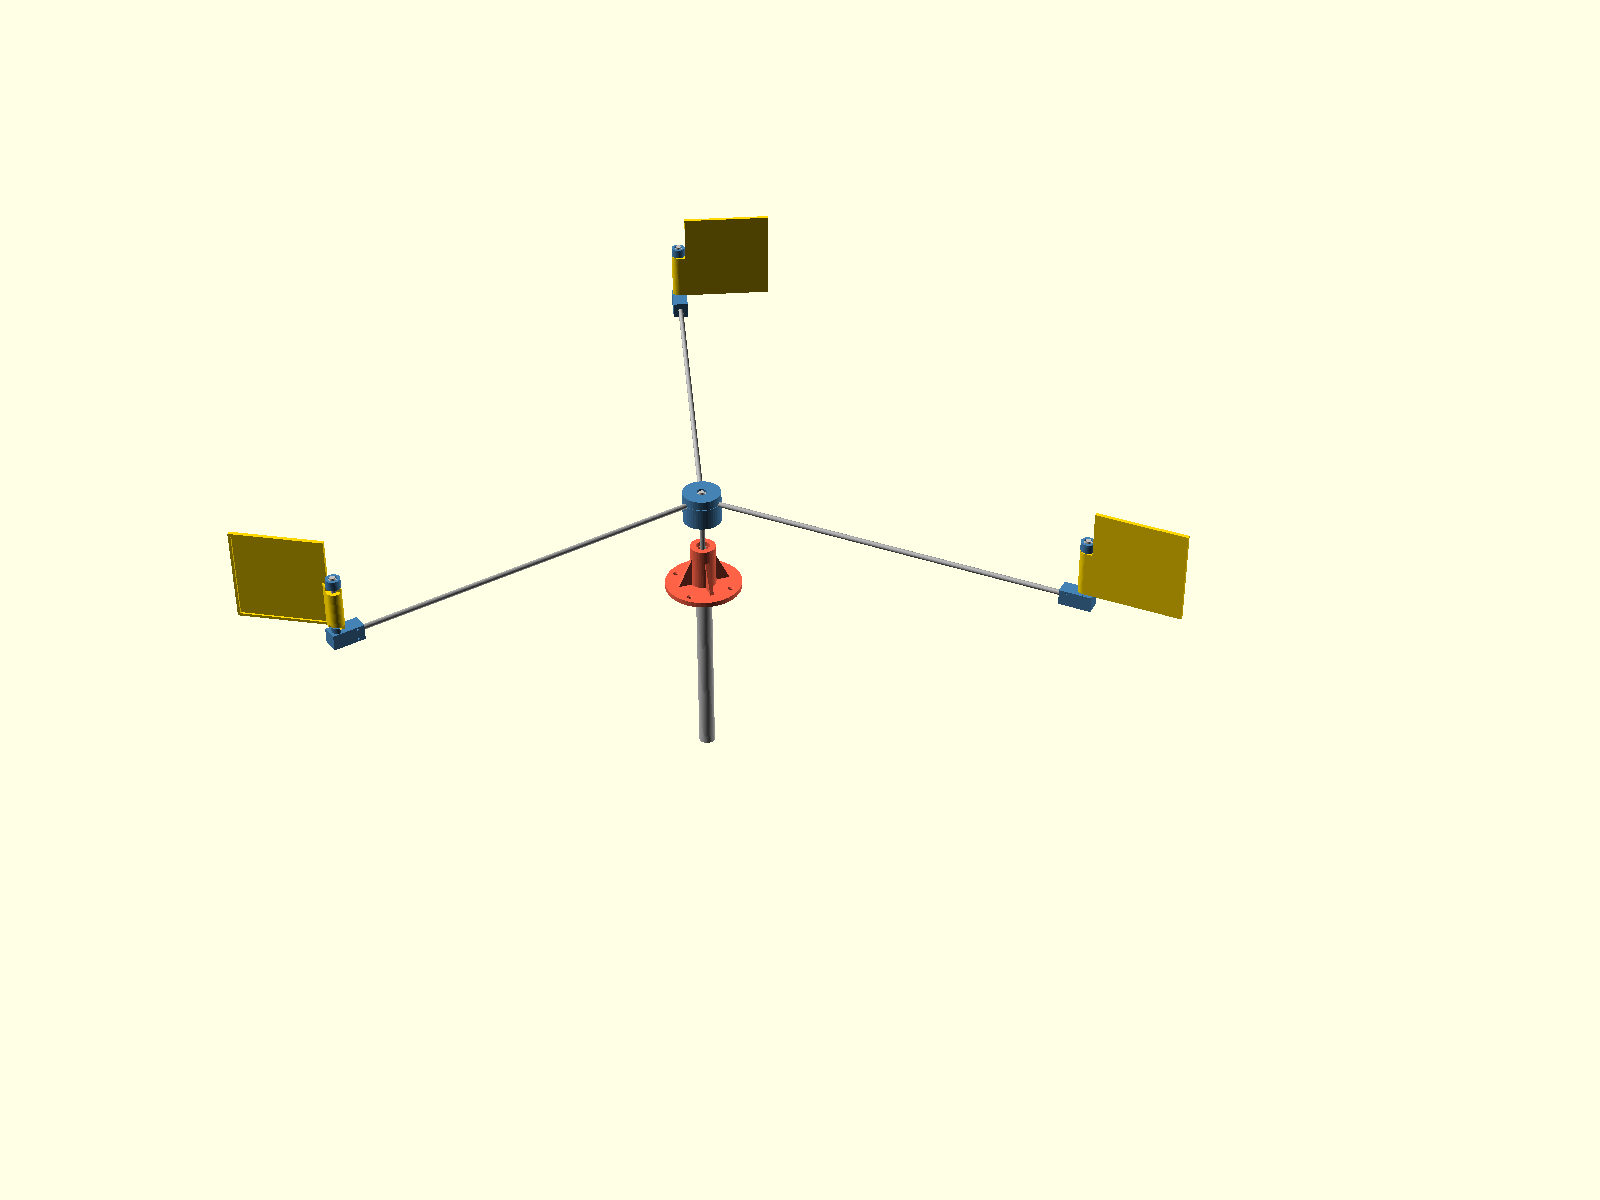
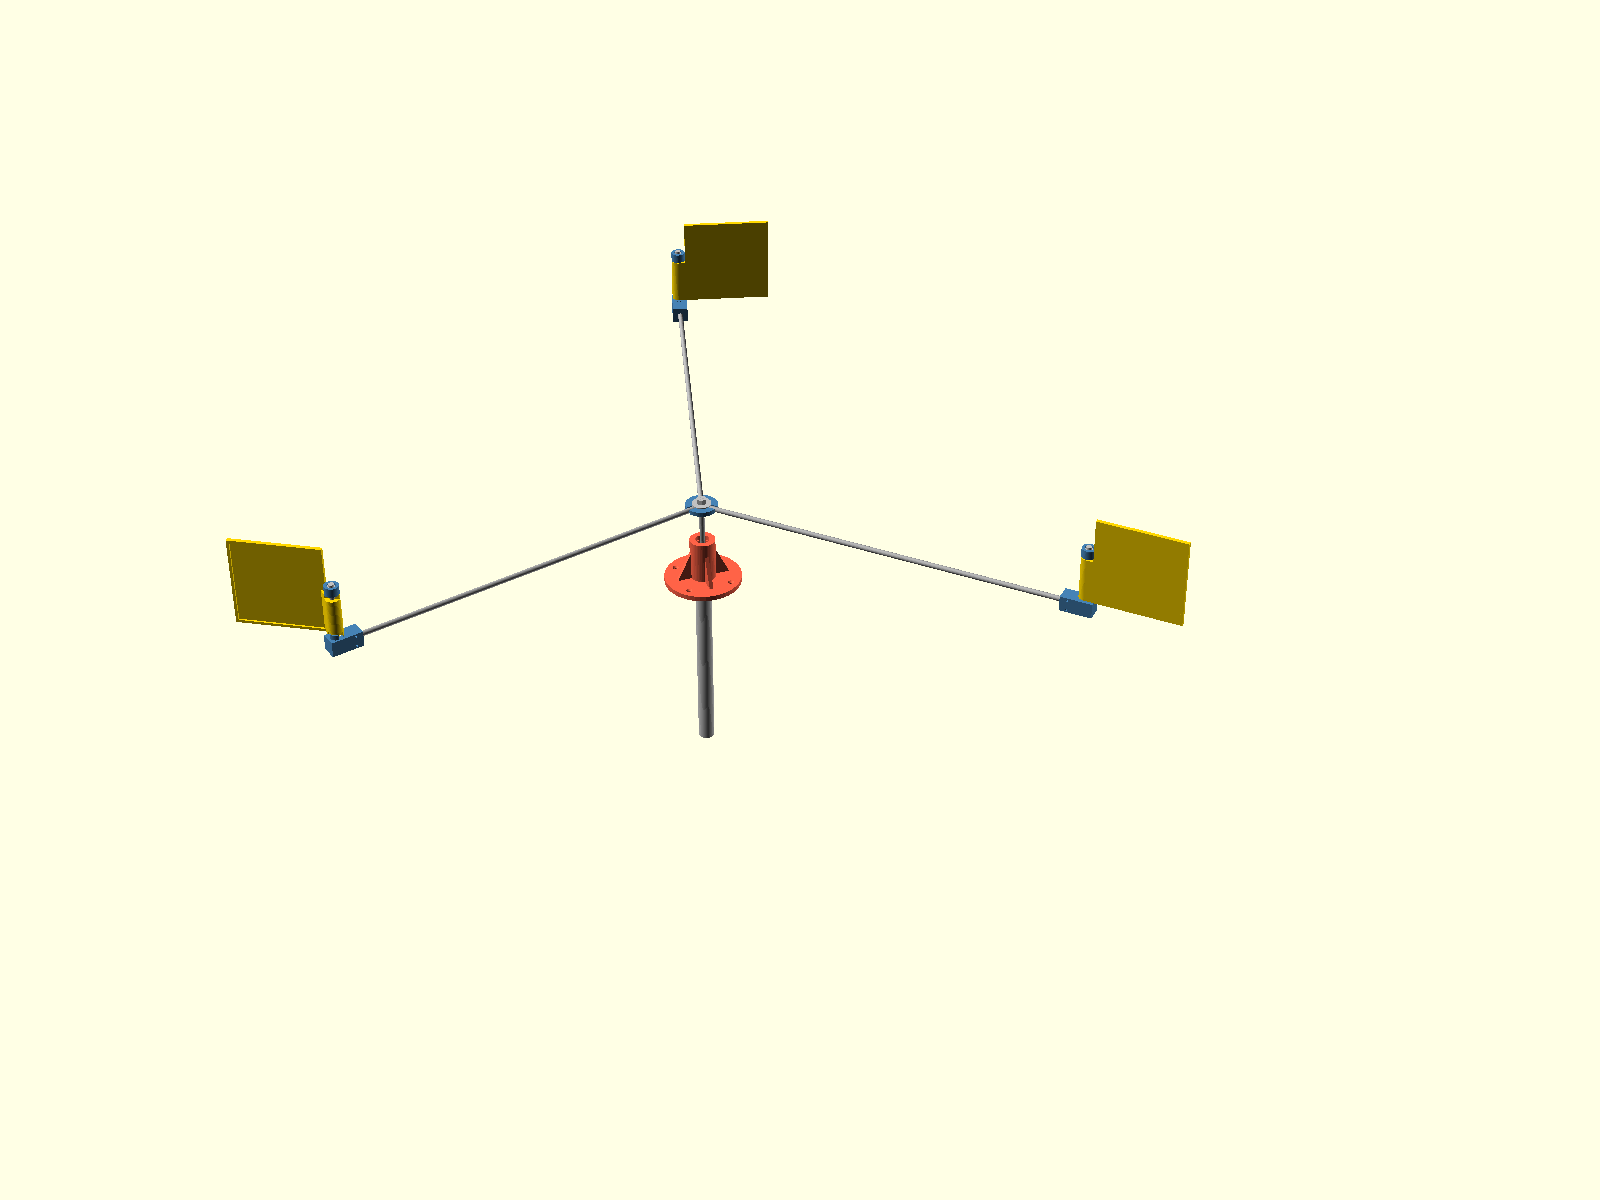
Tri washer-jaw hub: one spacer disc, fender washers as steel clamp jaws
The hub iterated down to its minimum: one printed disc, thinner
than the rod, with three full-height slots keying the arms at 120
degrees. The arms stand proud of both faces and two large M8 fender
washers press onto them from either side, clamped by M8 nylocs on
the shaft's die-threaded top end. The clamp path is steel washer,
aluminum rod, steel washer, steel nut, with no plastic in
compression, so this joint never needs the dual's seasonal
re-torque. The shaft is die-threaded, never drilled: 8 mm rod is an
M8 thread blank.

Also records a correction: the earlier claim that thread at the
shaft exit fails the storm case borrowed the arm's root moment. The
shaft at the hub carries about 1 Nm at survival wind, so the
threaded section holds a factor near four; the storm-critical
member remains the arm.

diff --git a/docs/tri_concept.md b/docs/tri_concept.md
@@ -27,60 +27,58 @@ cap are the tri's own joints, built on one recurring idea. The tri
 models use `tri_` prefixed parameters and nothing from `cad/tri/`
 is exported to `stl/`.
 
-The idea: every rod in the tri lands on a printed step and is
-pulled home by one M5 with a washer into a tapped hole in the
-rod's end. The dual clamps rods because a DIY build cannot machine
-them; the tri PREPARES its rods (drill 4.2 mm, tap M5x0.8, 10 mm
-deep) and buys back almost every fastener and every set-by-hand
-step. One drill size, one tap, no lathe.
+The idea: the tri's rods end in threads, and every joint is a
+face pulled home along that thread, with printed plastic doing
+only keying and spacing. The dual clamps rods because a DIY build
+cannot machine them; the tri PREPARES its rods and buys back
+almost every fastener and every set-by-hand step. The whole
+toolchain is hand tools: one M8x1.25 die for the shaft, one 4.2 mm
+drill and M5x0.8 tap for the stubs, no lathe.
 
-## The split hub
+## The washer-jaw hub
 
-The tri's hub (`cad/tri/tri_hub.scad`) is a cylinder split on the
-horizontal plane containing all three arm axes. The arms lie in
-radial half-round seats and butt against the boss circle around
-the bolt bore; the top half closes over them, and one central M5
-with a washer runs down through both halves into a tapped hole in
-the shaft's top end. Tightening it pulls the shaft face up against
-the socket shoulder and presses the halves together, so a single
-bolt clamps three arms and locks the shaft axially at once. The
-three rods at 120 degrees key the halves against relative
-rotation, so there are no registration pegs, and the dual's
-clamshell rule carries over: the seats are cut shy by
-`tri_hub_gap`, so preload lands on the rods, never on
-face-to-face plastic. Both halves print seats-up with every bore
-vertical.
+The hub (`cad/tri/tri_hub.scad`) went through several sizes on
+the way down and landed as small as the job allows: ONE printed
+spacer disc, thinner than the rod. Three full-height slots key
+the arms at 120 degrees, the arms butt the boss circle and stand
+proud of both faces by 0.4 mm each, and two large M8
+fender washers press onto the rods from either side, clamped by
+M8 nylocs on the shaft's die-threaded top end (8 mm rod is
+exactly an M8 thread blank, so a hand die self-aligns and this
+rod is never drilled at all; the lower nut is the shoulder, run
+to the die's thread runout, and the upper one is the clamp).
 
-This is a deliberate divergence from the dual's no-rod-is-ever-
-drilled rule, and it marks the variants' characters: the dual is
-the fully DIY machine (hacksaw and hex keys only), the tri leans
-commercial-kit, with a PREPARED shaft (drill 4.2 mm, tap M5x0.8,
-10 mm deep in one end). Sourcing that prepared shaft:
+The load path is worth stating: steel washer, aluminum rod, steel
+washer, steel nut. No plastic sits in compression anywhere in
+this joint, so unlike every clamp on the dual it does not relax
+and never needs the seasonal re-torque. The disc only keys: its
+slot flanks carry the arms' horizontal storm bending as bearing
+over 18 mm, the washer faces square the hub on the shaft, and the
+disc prints flat in minutes.
+
+A structural note, recording a correction: an earlier pass
+rejected male thread on the shaft, claiming the storm case fails
+at the threaded exit with a safety factor near 0.7. That number
+was wrong, it borrowed the ARM's root moment (about 5.8 Nm). The
+shaft at the hub only carries the vane drag over the short lever
+down to the top bearing, about 1 Nm at survival wind, so even on
+the M8 minor section the stress is about 42 MPa against the
+alloy's 160: a storm factor near four, with gust amplitudes far
+below fatigue concern. The storm-critical member is and remains
+the arm, unaffected by any hub choice.
+
+Sourcing notes for the prepared rods, kept from earlier rounds:
 
 - Tube cannot be tapped: any 8 mm tube has a bore at or above 5
-  mm, which is already larger than the M5 thread. Solid rod only.
-- Solid 8 mm aluminum rod taps easily by hand: center punch,
-  drill 4.2 mm about 14 mm deep, tap M5x0.8. A lathe makes it
-  concentric and fast but is not required, because the socket
-  locates the shaft and the bolt only supplies axial preload, so
-  thread concentricity is not critical.
+  mm, already larger than the M5 thread. Solid rod only.
+- Solid 8 mm rod taps easily by hand (center punch, drill 4.2 mm
+  about 14 mm deep, tap M5x0.8), and dies easily by hand (chamfer
+  the end, run the die). Concentricity is not critical in either
+  case, because bores and steps locate the rods and the threads
+  only supply axial preload.
 - For kits, linear-motion suppliers sell ground 8 mm shafts with
-  female-tapped ends as a standard catalog option, which is zero
+  threaded ends as a standard catalog option, which is zero
   machining.
-
-Considered and set aside, recorded so it is not rediscovered: a
-MALE die thread on the shaft top instead of the tap (8 mm rod is
-an M8 blank, so a hand die is the cheapest prep of all), with the
-hub squeezed between a shoulder nut under its bottom face and a
-top nut. Mechanically it works, but it puts thread roots at the
-shaft's highest-bending cross-section, right where the shaft
-exits the hub: the M8 minor diameter of about 6.5 mm roughly
-halves the bending section modulus and adds a fatigue notch to a
-joint the stop clack vibrates for years, and the shoulder nut
-reintroduces a set-by-position adjustment where the tap gives
-pure geometry. The female tap keeps the critical section a solid
-8 mm circle inside a snug printed socket. Die threads remain a
-good trick for any future joint that carries no bending.
 
 ## The screwed stub tip
 
@@ -116,14 +114,15 @@ will be drawn notchless from the start rather than forking the
 solid vane for a cosmetic deletion now.
 
 What the whole tri now needs, beyond printed parts and rod stock:
-seven M5 screws with washers (one hub, three stub, three cap, all
-into tapped rod ends, threadlocked against stop vibration), eight
-M3s with nylocs (three arm-clamp pairs and the thrust collar),
-and the rod prep of seven M5 taps across four rods. No nuts are
-juggled anywhere, and nothing is set by feel: the arms butt the
-hub's boss circle, the stubs land on their steps, every stop angle
-is keyed geometry, and the one adjustable joint left in the whole
-machine is the gauged thrust collar on the shaft.
+six M5 screws with washers (three stub, three cap, into tapped
+rod ends, threadlocked against stop vibration), two M8 nylocs
+with fender washers at the hub, eight M3s with nylocs (three
+arm-clamp pairs and the thrust collar), and the rod prep of one
+die pass on the shaft and six taps across the three stubs.
+Nothing is set by feel: the arms butt the hub's boss circle, the
+stubs land on their steps, every stop angle is keyed geometry,
+and the one adjustable joint left in the whole machine is the
+gauged thrust collar on the shaft.
 
 The dual's performance work showed what limits low-wind running
 once the geometry is tuned: thrust-seat friction, vane mass, and
@@ -156,7 +155,7 @@ would have to be bolted on, at which point the swing-vane concept
 is the simpler machine.
 
 Build order as the tri matures toward its first release: three
-arms first via the split hub above (pure consistency, dual vanes
-throughout), then washers, then film vanes, then the reach-for-arm
-trade only if the water still asks for it. Further tri ideas land
-here as they come.
+arms first via the washer-jaw hub above (pure consistency, dual
+vanes throughout), then washers, then film vanes, then the
+reach-for-arm trade only if the water still asks for it. Further
+tri ideas land here as they come.
